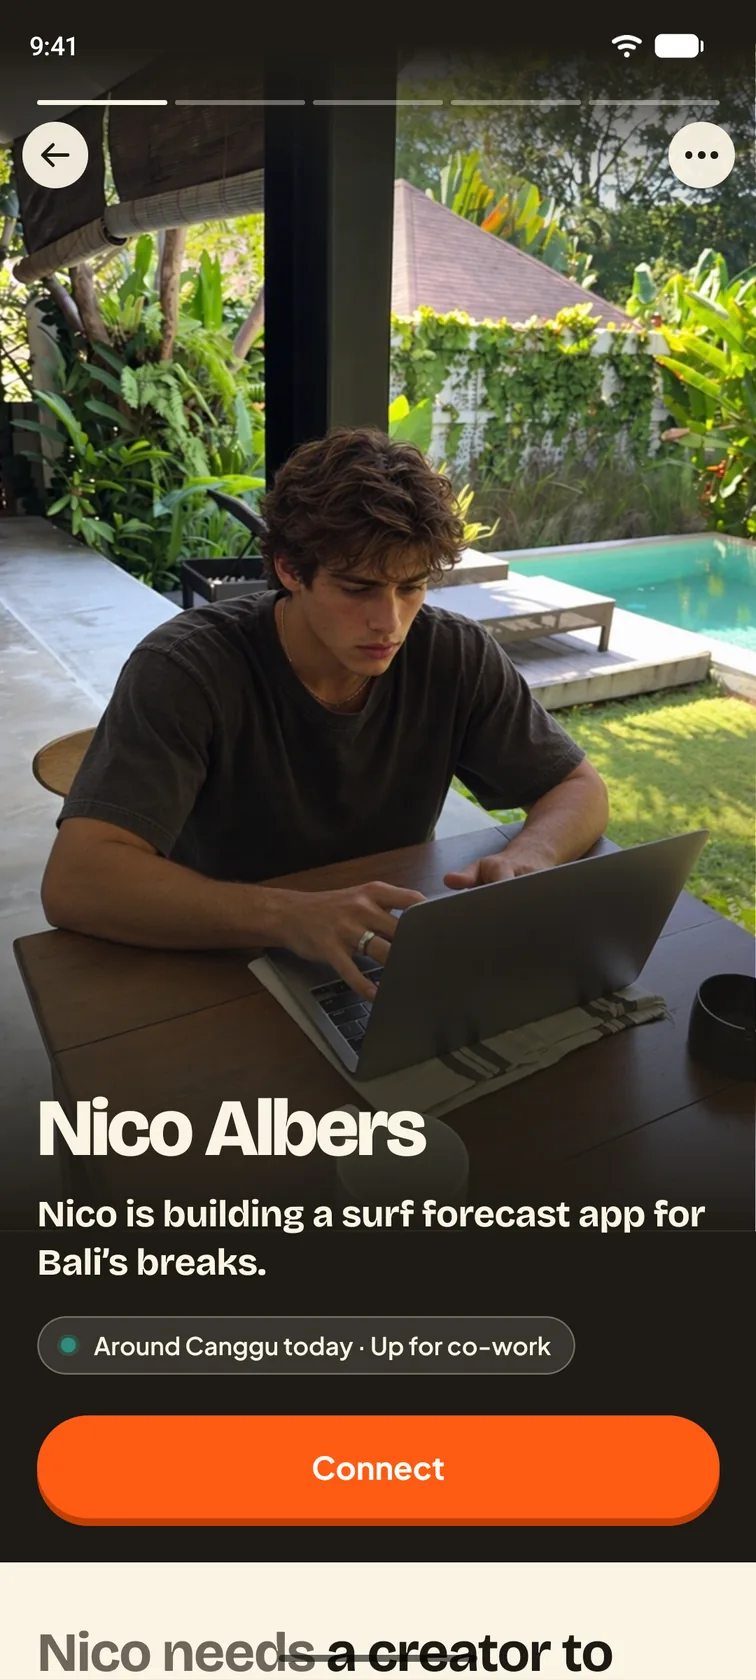
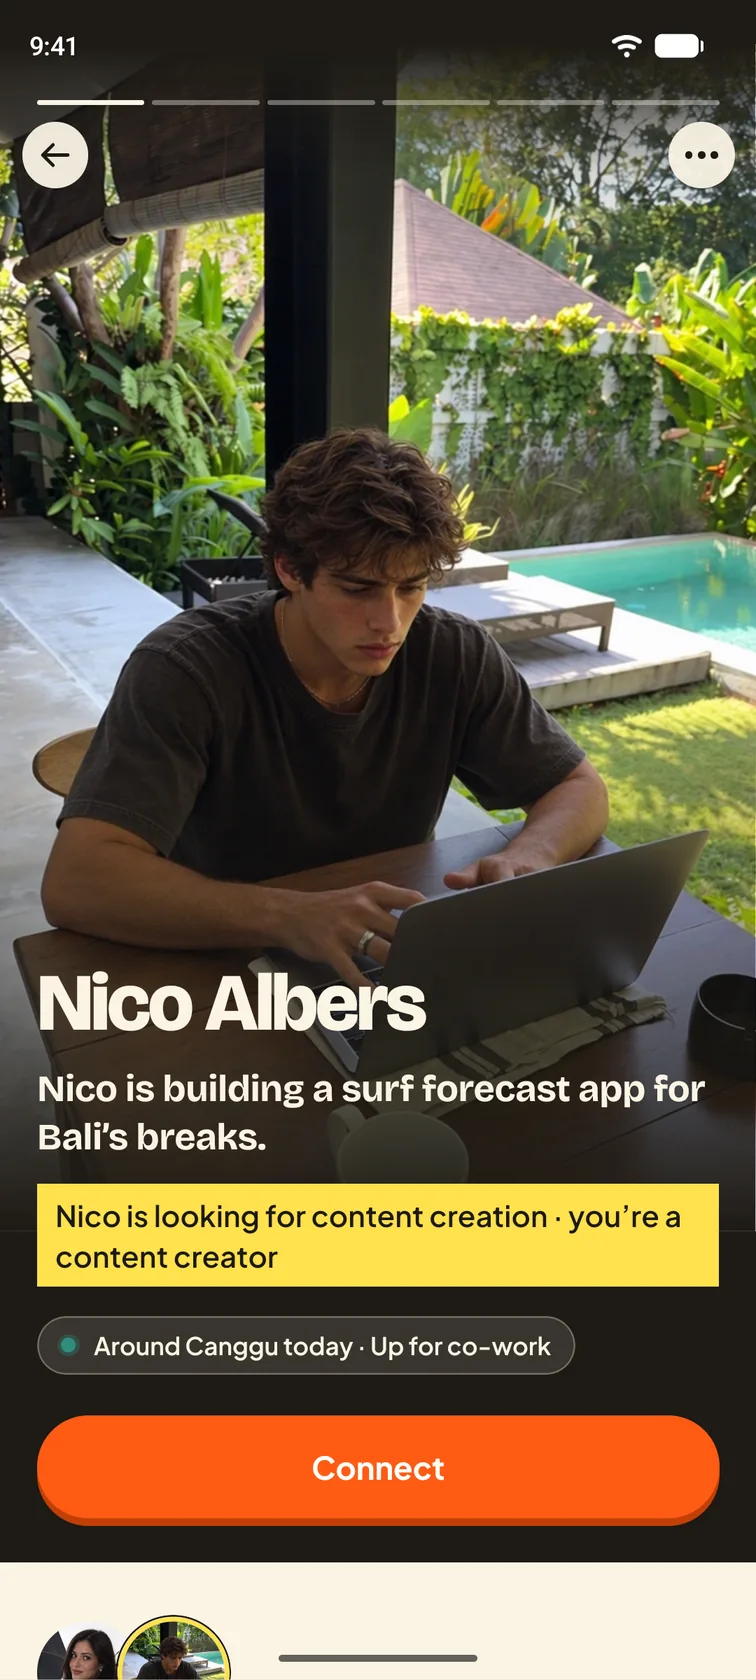
profile-photo from the new master (5232): the fit line back, the handle on empty space
v5-full/profile-photo.png (1080 x 2400, SHA-256 1a252575) as 1x, 2x and 3x
WebP, as in ba110aa; stamped. The alt names what's on screen: Nico's photo,
what Nico is building, a line on what Nico is looking for, Around Canggu
today and a Connect button.

Changed region(s): [[0.0304, 0.5571, 0.9735, 0.7738], [0.0304, 0.9595, 0.8214, 1.0]]

diff --git a/how-it-works/index.html b/how-it-works/index.html
@@ -76,7 +76,7 @@
   <section class="chapter" id="profile" aria-labelledby="ch-1">
     <figure class="ch-shots shot">
       <div class="devices">
-        <div class="device"><img src="../assets/screens/profile-photo-2x.webp?v=daaede2b" srcset="../assets/screens/profile-photo-1x.webp?v=010b7b0e 1x, ../assets/screens/profile-photo-2x.webp?v=daaede2b 2x, ../assets/screens/profile-photo-3x.webp?v=68c1a43c 3x" width="252" height="560" alt="Sample screen: Nico Albers’s profile, with Nico’s photo, what Nico is building, Around Canggu today and a Connect button" fetchpriority="high"></div>
+        <div class="device"><img src="../assets/screens/profile-photo-2x.webp?v=e806f21d" srcset="../assets/screens/profile-photo-1x.webp?v=b22ab8c7 1x, ../assets/screens/profile-photo-2x.webp?v=e806f21d 2x, ../assets/screens/profile-photo-3x.webp?v=e0bb4342 3x" width="252" height="560" alt="Sample screen: Nico Albers’s profile, with Nico’s photo, what Nico is building, a line on what Nico is looking for, Around Canggu today and a Connect button" fetchpriority="high"></div>
         <div class="device"><img src="../assets/screens/profile-about-2x.webp?v=13a6d7d0" srcset="../assets/screens/profile-about-1x.webp?v=ee7d0f39 1x, ../assets/screens/profile-about-2x.webp?v=13a6d7d0 2x, ../assets/screens/profile-about-3x.webp?v=0bea0ef3 3x" width="252" height="560" alt="Sample screen: Nico Albers’s profile, with what Nico needs, what Nico can help with and what Nico is open to" loading="lazy" decoding="async"></div>
       </div>
       <figcaption class="caption">Sample profiles</figcaption>
